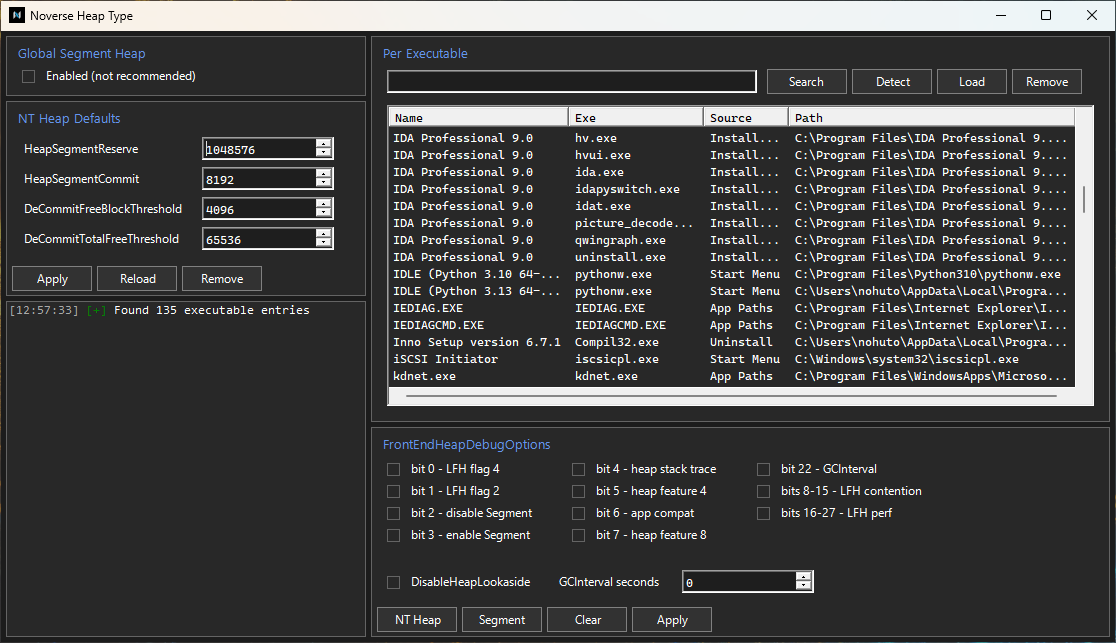
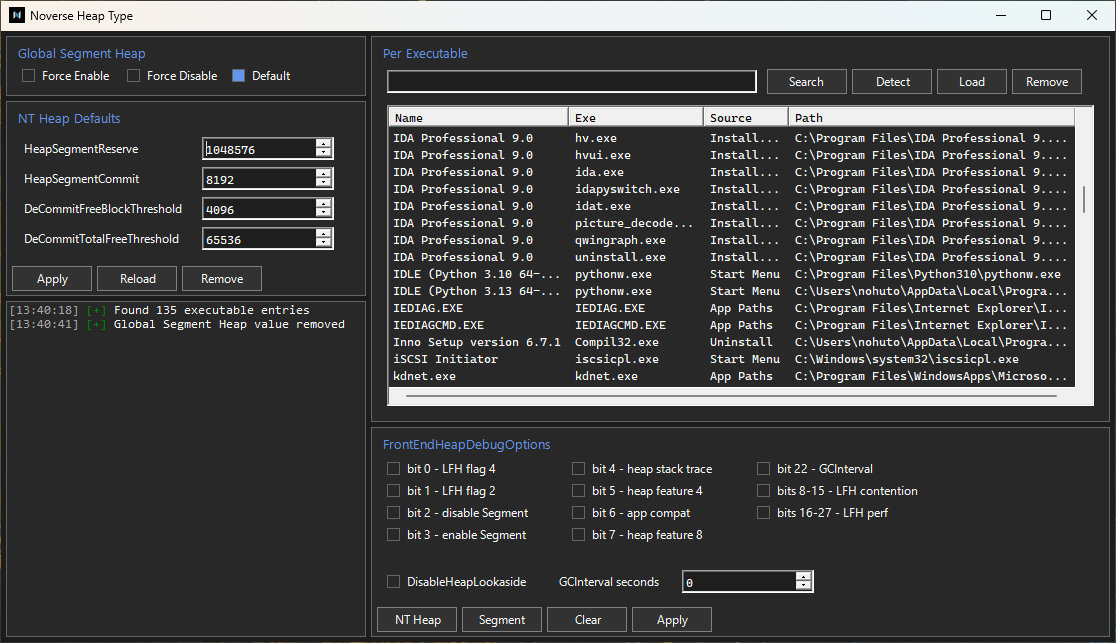
docs update

diff --git a/system/desc.md b/system/desc.md
@@ -4074,6 +4074,8 @@ ZwAllocateVirtualMemory((HANDLE)0xFFFFFFFFFFFFFFFFLL, &BaseAddress, 0LL, v16, 0x
 
 Global Segment Heap switch read by [`RtlpHpApplySegmentHeapConfigurations`](https://github.com/nohuto/decompiled-pseudocode/blob/main/11-23H2/ntdll/RtlpHpApplySegmentHeapConfigurations.c) during heap manager init, [`RtlInitializeHeapManager`](https://github.com/nohuto/decompiled-pseudocode/blob/main/11-23H2/ntdll/RtlInitializeHeapManager.c) uses those flags, `0x10` (`RtlpHpOptIntoSegmentHeap`) enables Segment Heap, `8` clears it after the opt in part.
 
+When setting that value to `0` it would "force" NT Heap, means it overrides per process `FrontEndHeapDebugOptions = 8` (segment heap) changes too.
+
 ```c
 // RtlpHpApplySegmentHeapConfigurations
 result = NtQueryValueKey();
